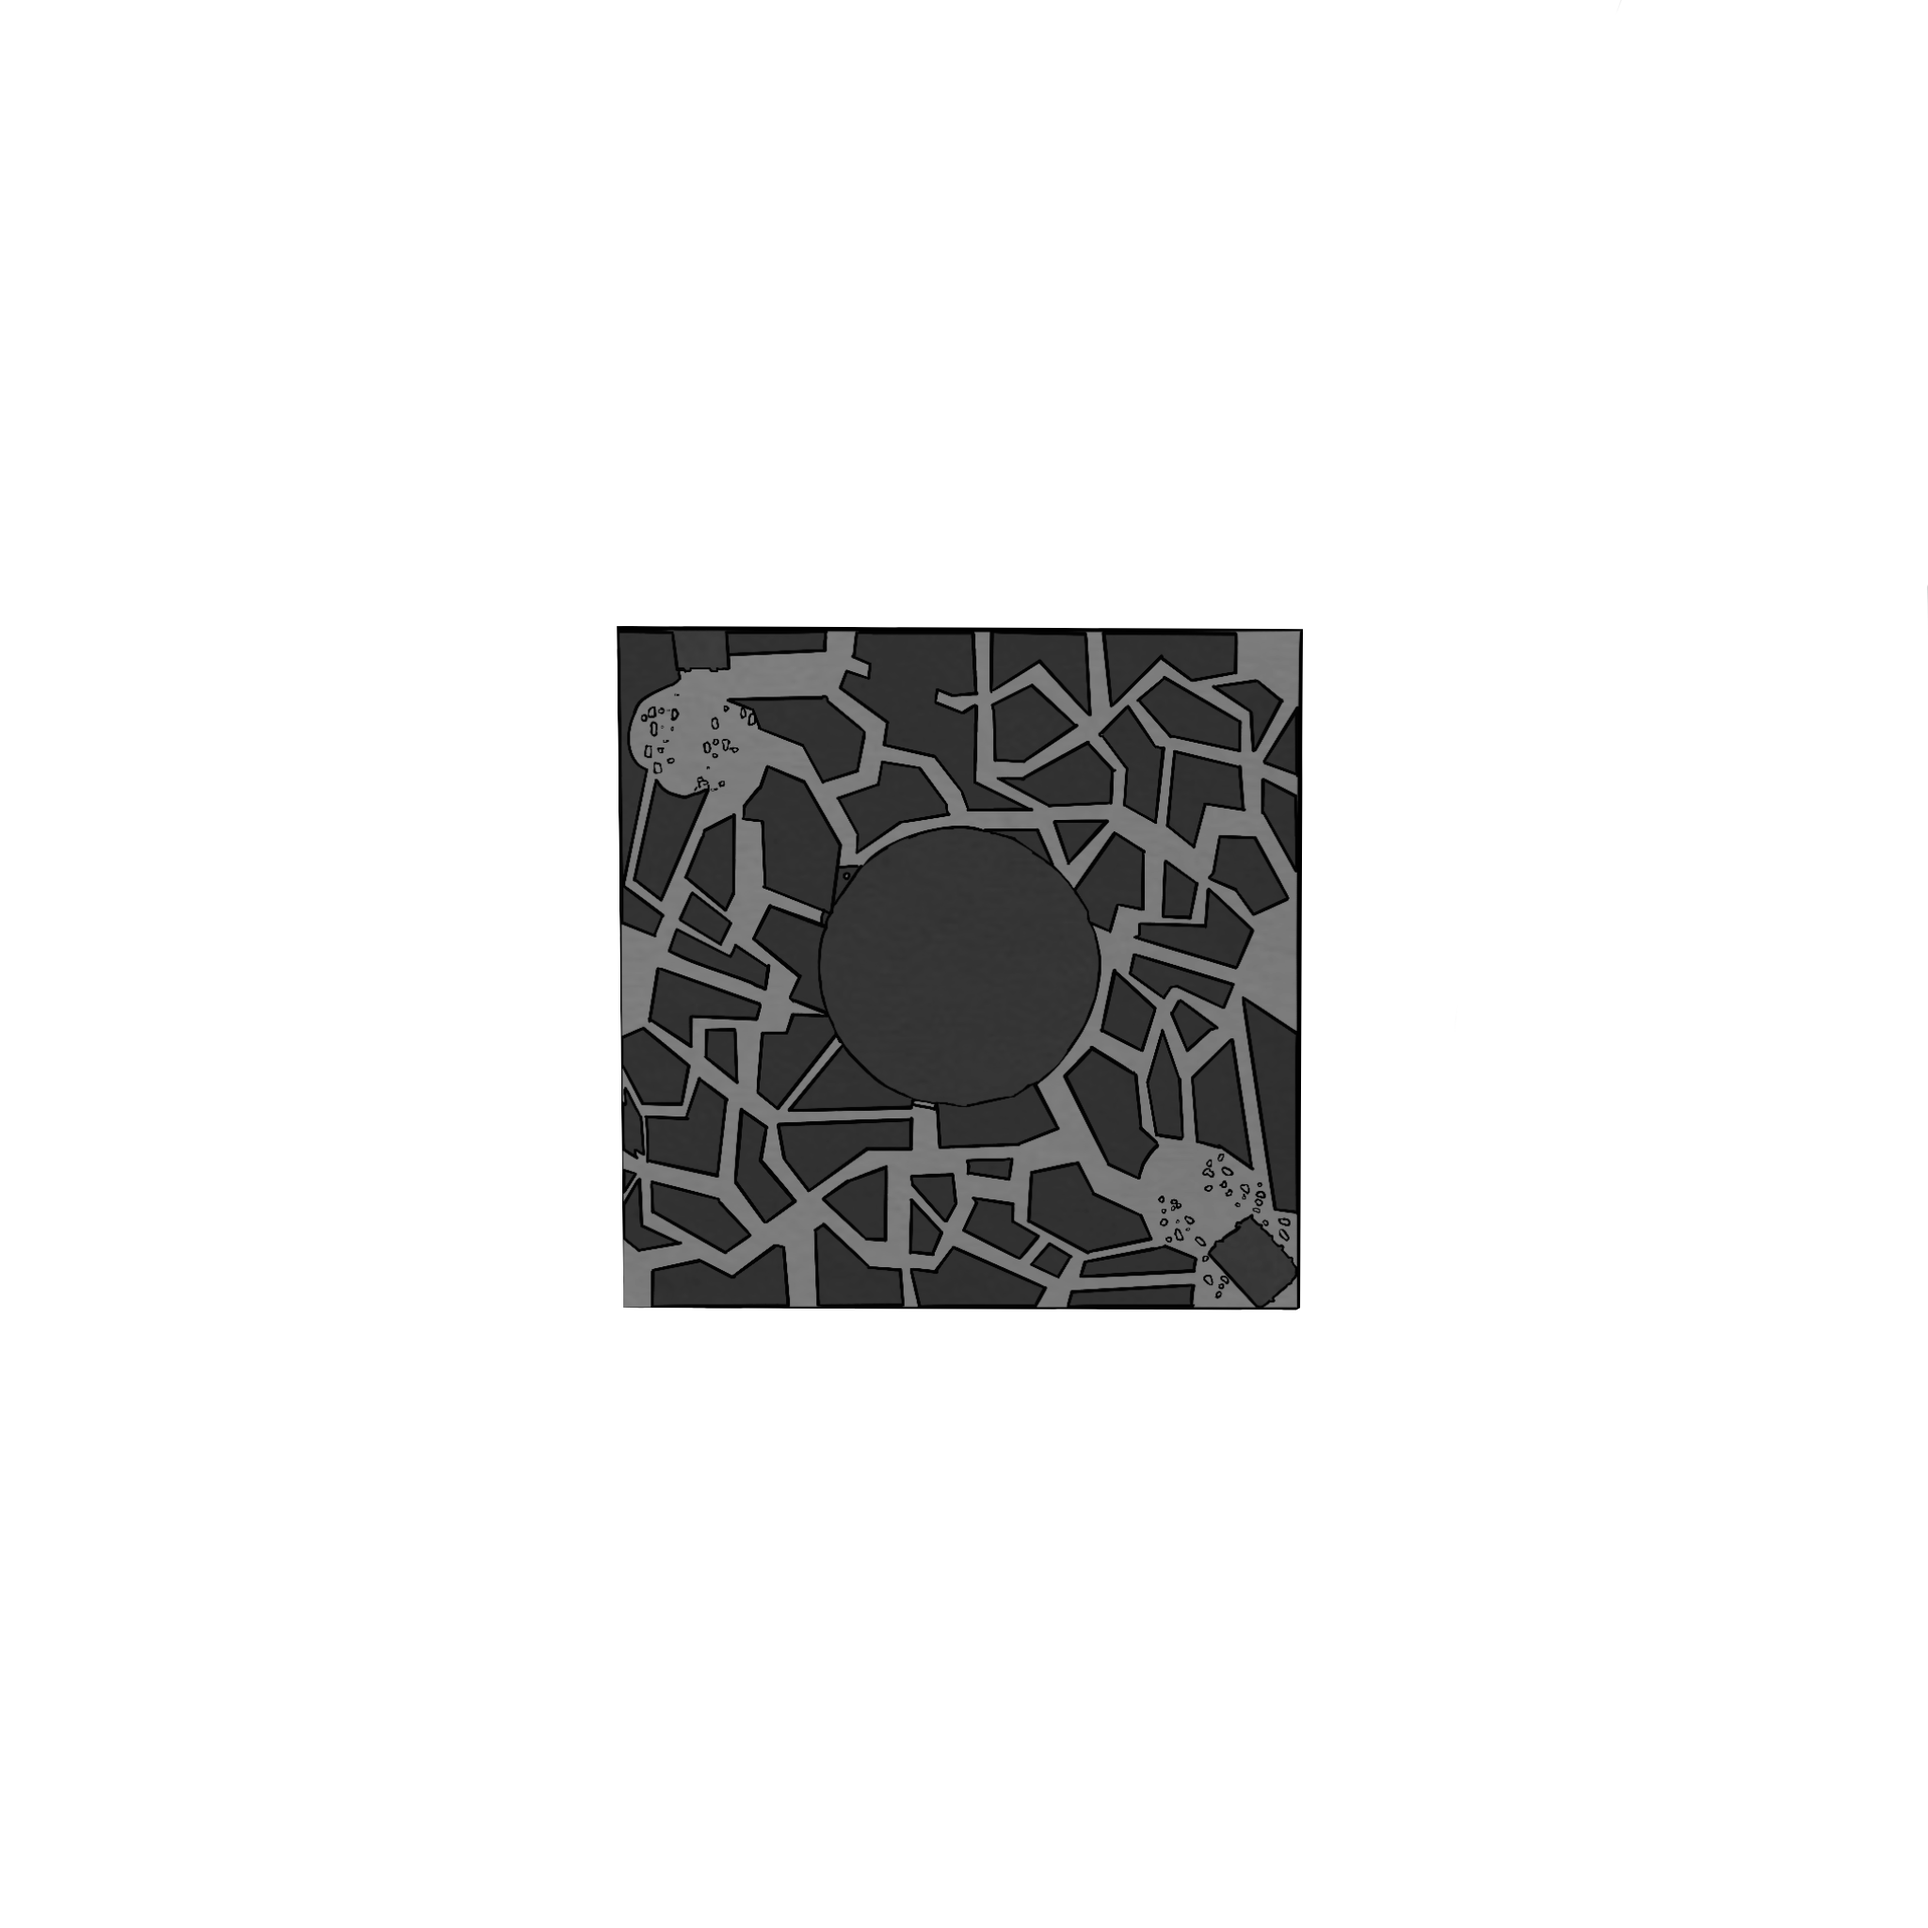
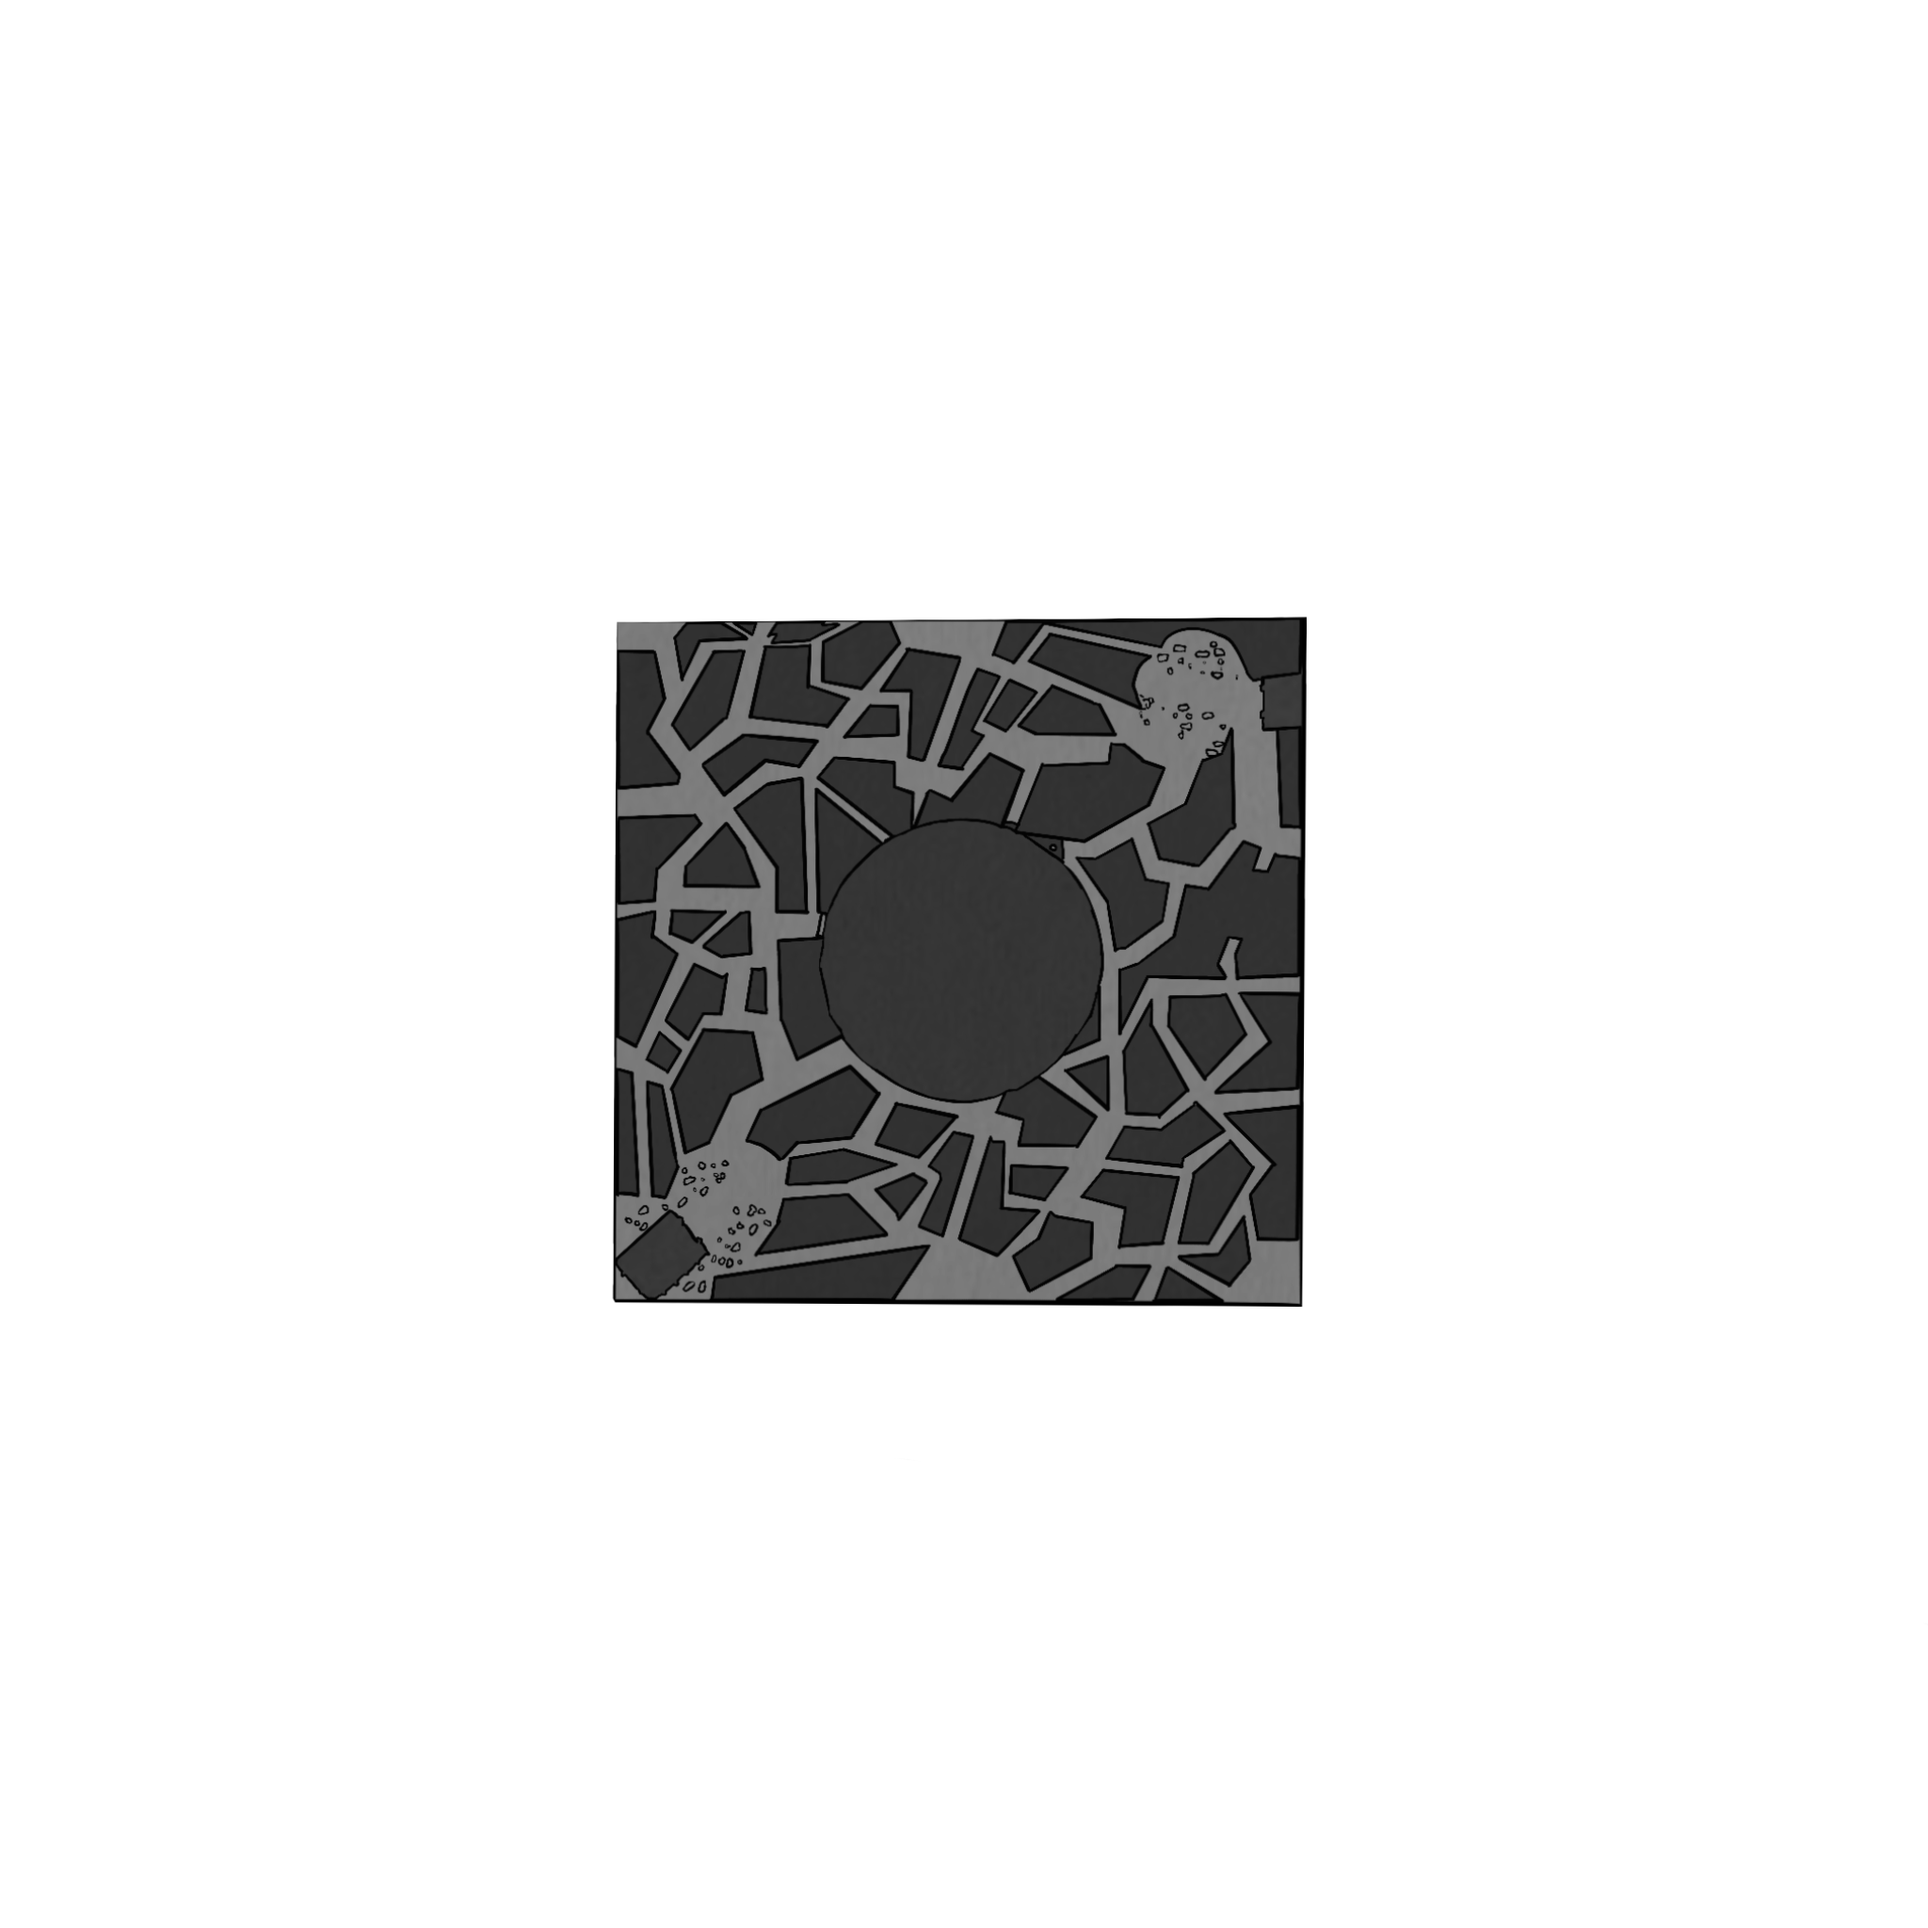
yes

Changed region(s): [[0.3125, 0.3125, 0.6875, 0.6875]]

diff --git a/PC_Client_&_Server_Makina/Assets/Scripts/UIMinimapManager.cs b/PC_Client_&_Server_Makina/Assets/Scripts/UIMinimapManager.cs
@@ -232,9 +232,9 @@ public class UIMinimapManager : MonoBehaviour {
         #endregion
 
         #region Floor Dimmers
-            if(m_bottomFloorDimmer != null)m_bottomFloorDimmer.gameObject.SetActive(playerPosition.y < m_heightBetweenBottomAndMiddleFloor);
-            if(m_middleFloorDimmer != null)m_middleFloorDimmer.gameObject.SetActive(playerPosition.y >= m_heightBetweenBottomAndMiddleFloor && playerPosition.y <= m_heightBetweenMiddleAndTopFloor);
-            if(m_topFloorDimmer != null)m_topFloorDimmer.gameObject.SetActive(playerPosition.y > m_heightBetweenMiddleAndTopFloor);
+            if(m_bottomFloorDimmer != null)m_bottomFloorDimmer.gameObject.SetActive(!(playerPosition.y < m_heightBetweenBottomAndMiddleFloor));
+            if(m_middleFloorDimmer != null)m_middleFloorDimmer.gameObject.SetActive(!(playerPosition.y >= m_heightBetweenBottomAndMiddleFloor && playerPosition.y <= m_heightBetweenMiddleAndTopFloor));
+            if(m_topFloorDimmer != null)m_topFloorDimmer.gameObject.SetActive(!(playerPosition.y > m_heightBetweenMiddleAndTopFloor));
         #endregion
         
         playerPositionRatio = Vector2.one - playerPositionRatio; // We get a more correct player ratio for other elements that will read it
